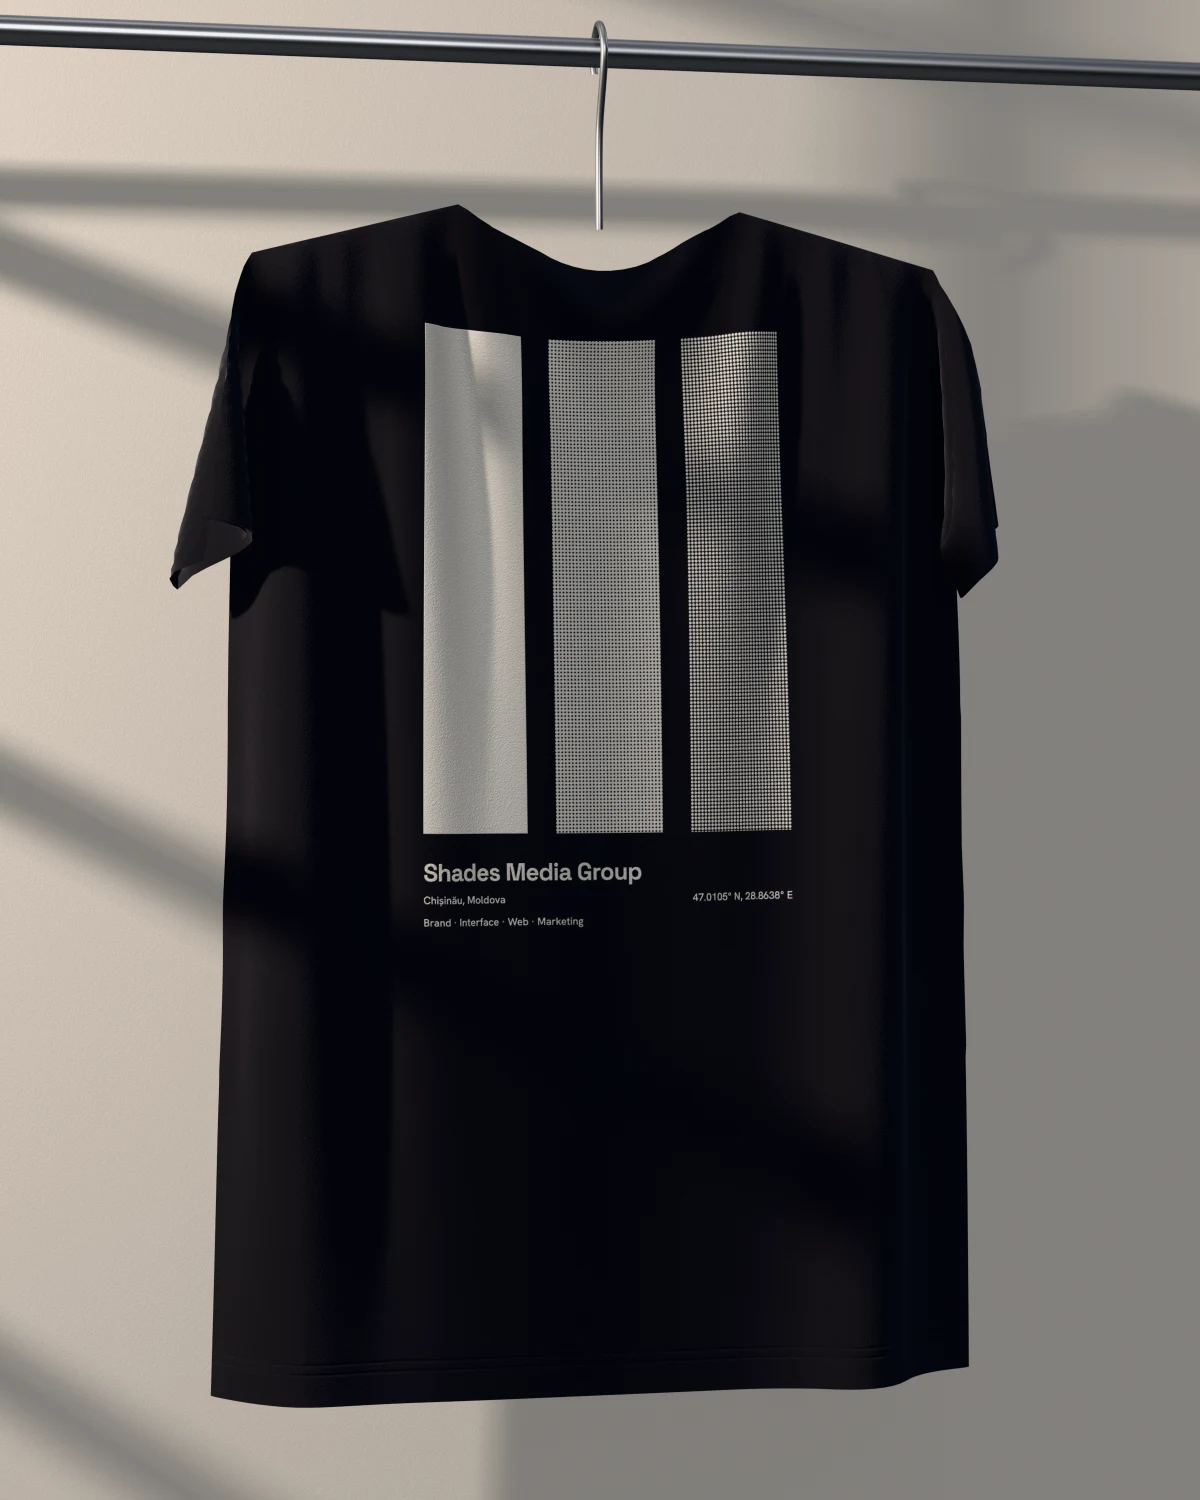
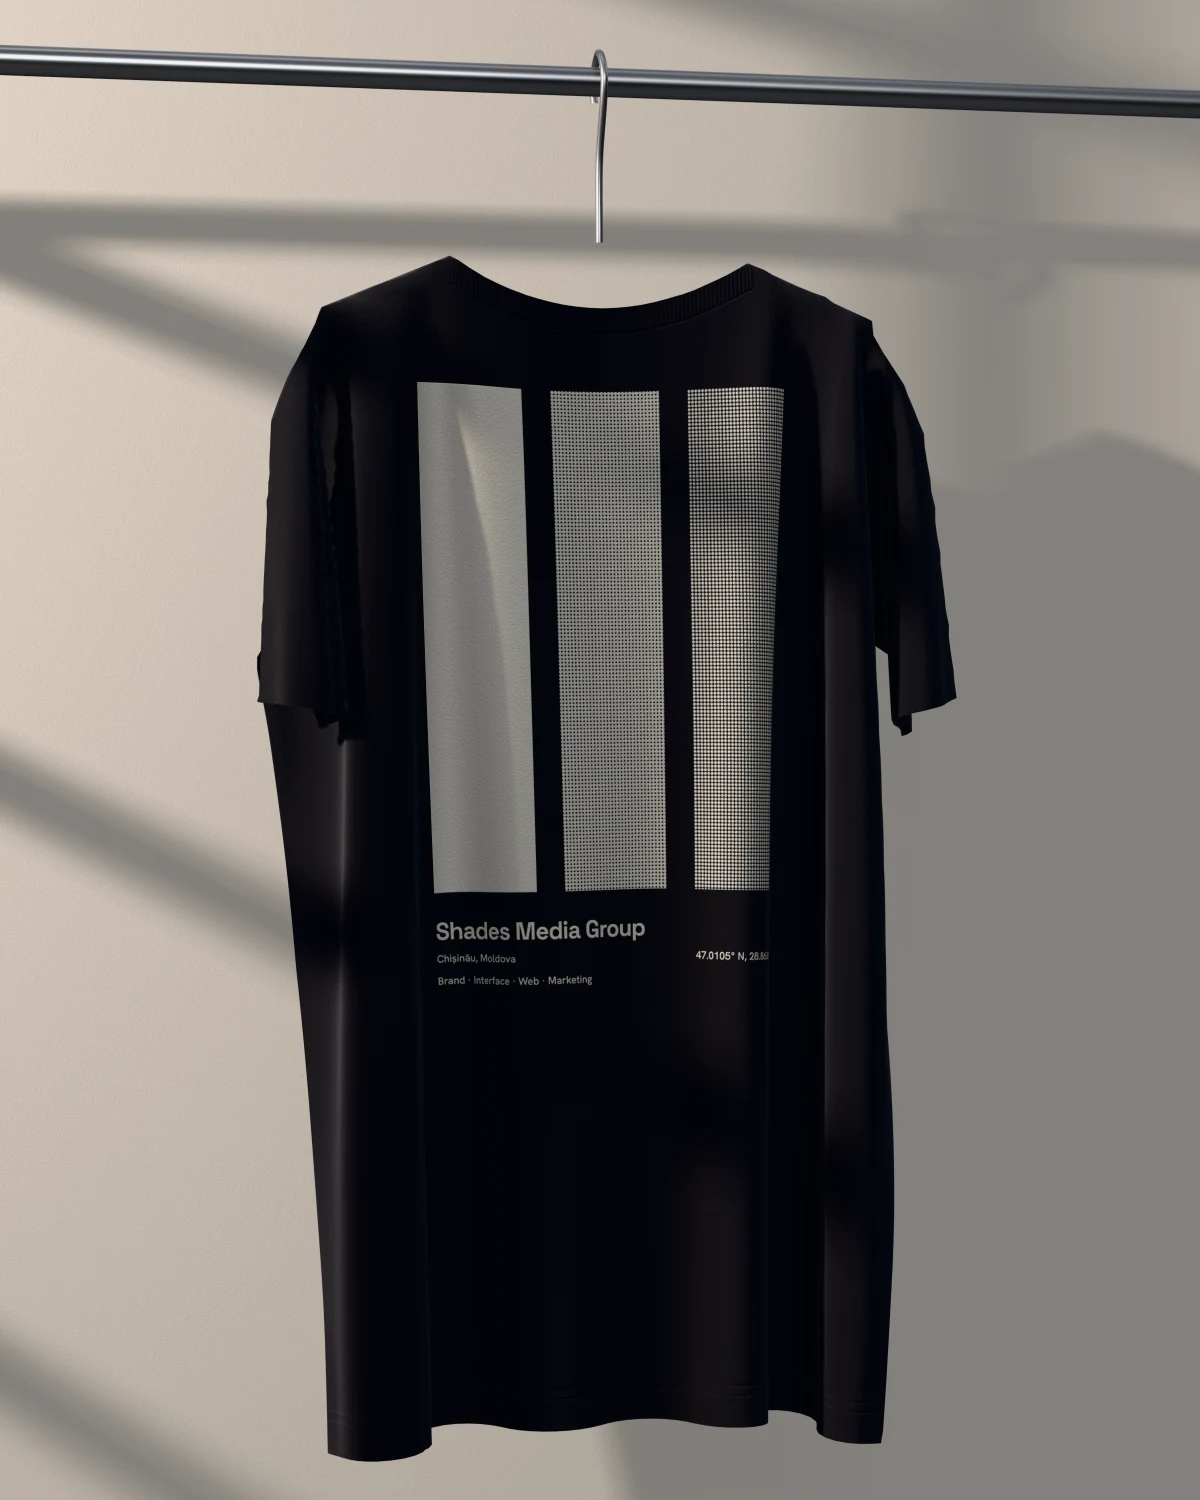
feat(renders): a tee that hangs like a real one
The cloth rests on a wooden hanger narrower than the shoulders, so the
shoulders roll over its tips; links cannot stretch past 2 %, so cotton stays
cotton; the pattern is a size L. The collar rib, shoulder seams, sleeve and
body hems are stitched into the fabric, and the print is a cotton-ink white.

diff --git a/scripts/renders/garment.js b/scripts/renders/garment.js
@@ -4,22 +4,27 @@
  * let fall under gravity (position-based dynamics). The folds are the
  * simulation's, not drawn.
  *
- * Pattern units are millimetres, size M: origin at the hem's centre, y up.
+ * Pattern units are millimetres, size L (560 mm chest, 700 mm long): origin at
+ * the hem's centre, y up.
  */
 import { THREE, noise } from './studio.js'
 
-export const NECK = 718
+export const NECK = 700
+
+/** A wooden hanger: arms 175 mm each side, sloping down from the hook, 14 mm thick. */
+export const HANGER = { reach: 175, thick: 14 }
+export const hangerTop = (a) => NECK - 4 - Math.max(0, a - 70) * 0.42
 
 /** The outline as segments, each a seam or an opening (neck, hem, sleeve hems). */
 function pattern() {
   const right = {
     neck: [92, NECK],
-    shoulder: [232, 684],
-    sleeveTop: [372, 592],
-    sleeveHem: [318, 498],
-    underarm: [262, 548],
-    waist: [266, 300],
-    hem: [260, 0],
+    shoulder: [246, 666],
+    sleeveTop: [392, 576],
+    sleeveHem: [336, 480],
+    underarm: [280, 530],
+    waist: [284, 300],
+    hem: [280, 0],
   }
   const mirror = ([x, y]) => [-x, y]
   const segments = []
@@ -80,7 +85,7 @@ function closest(segments, x, y, filter = () => true) {
  * back of the shirt, facing the camera) and the inner panel, with UVs in
  * pattern space: u = (x + 400) / 800, v = y / 760.
  */
-export function drapeTee({ spacing = 8, steps = 420, iterations = 22, seed = 3 } = {}) {
+export function drapeTee({ spacing = 8, steps = 560, iterations = 22, seed = 3 } = {}) {
   const segments = pattern()
   const x0 = -400
   const y0 = 0
@@ -117,9 +122,11 @@ export function drapeTee({ spacing = 8, steps = 420, iterations = 22, seed = 3 }
     const n = node[k]
     front.set(k, px.length / 3)
     const seamDistance = closest(segments, n.x, n.y, (s) => !s.open).d
-    const puff = 9 * Math.min(1, seamDistance / 70)
+    const puff = 5 * Math.min(1, seamDistance / 80)
     px.push(n.x, n.y, puff + (noise(n.x / 40, n.y / 40, seed) - 0.5) * 3)
-    inv.push(n.edge && n.shoulder ? 0 : 1)
+    // Only the part of the shoulder seam that rests on the hanger is held; past the
+    // hanger's tips the shoulders roll over and drop, as they do on a real hanger.
+    inv.push(n.edge && n.shoulder && Math.abs(n.x) <= HANGER.reach ? 0 : 1)
     rest2d.push([n.x, n.y])
   }
   for (const k of used) {
@@ -130,15 +137,19 @@ export function drapeTee({ spacing = 8, steps = 420, iterations = 22, seed = 3 }
     }
     back.set(k, px.length / 3)
     const seamDistance = closest(segments, n.x, n.y, (s) => !s.open).d
-    const puff = 9 * Math.min(1, seamDistance / 70)
+    const puff = 5 * Math.min(1, seamDistance / 80)
     px.push(n.x, n.y, -puff + (noise(n.x / 40, n.y / 40, seed + 5) - 0.5) * 3)
     inv.push(1)
     rest2d.push([n.x, n.y])
   }
-  // The hanger is narrower than the shoulders, so the pinned seam sits 6 % in.
   const count = px.length / 3
   const P = new Float32Array(px)
-  for (let p = 0; p < count; p++) if (inv[p] === 0) P[p * 3] *= 0.94
+  // Held seam nodes sit on the hanger's arms, which slope down from the hook.
+  for (let p = 0; p < count; p++)
+    if (inv[p] === 0) {
+      P[p * 3 + 1] = hangerTop(Math.abs(P[p * 3]))
+      P[p * 3 + 2] = 0
+    }
   const Q = new Float32Array(P)
   const W = new Float32Array(inv)
 
@@ -210,11 +221,39 @@ export function drapeTee({ spacing = 8, steps = 420, iterations = 22, seed = 3 }
         P[b + 1] -= dy * diff * wb
         P[b + 2] -= dz * diff * wb
       }
-      // The two panels never pass through each other.
+      // Cotton jersey barely stretches: no structural link grows past 2 %.
+      if (it === iterations - 1)
+        for (let c = 0; c < A.length; c++) {
+          if (K[c] !== 1) continue
+          const a = A[c] * 3
+          const b = B[c] * 3
+          const dx = P[b] - P[a]
+          const dy = P[b + 1] - P[a + 1]
+          const dz = P[b + 2] - P[a + 2]
+          const len = Math.sqrt(dx * dx + dy * dy + dz * dz) || 1e-6
+          const max = R[c] * 1.02
+          if (len <= max) continue
+          const wa = W[A[c]]
+          const wb = W[B[c]]
+          const w = wa + wb
+          if (w === 0) continue
+          const diff = (len - max) / (len * w)
+          P[a] += dx * diff * wa
+          P[a + 1] += dy * diff * wa
+          P[a + 2] += dz * diff * wa
+          P[b] -= dx * diff * wb
+          P[b + 1] -= dy * diff * wb
+          P[b + 2] -= dz * diff * wb
+        }
+      // The two panels never pass through each other, and part around the hanger.
       for (const [f, b] of pairs) {
+        const x = Math.abs(P[f * 3])
+        const y = P[f * 3 + 1]
+        const onHanger = x < HANGER.reach + 12 && y > hangerTop(x) - 40
+        const min = onHanger ? HANGER.thick : 3
         const gap = P[f * 3 + 2] - P[b * 3 + 2]
-        if (gap < 3) {
-          const push = (3 - gap) / 2
+        if (gap < min) {
+          const push = (min - gap) / 2
           P[f * 3 + 2] += push * (W[f] ? 1 : 0)
           P[b * 3 + 2] -= push
         }

diff --git a/scripts/renders/scenes.js b/scripts/renders/scenes.js
@@ -823,8 +823,26 @@ async function tee(assets) {
     albedo.height,
     (x, y) => {
       const mmY = 760 - y / PX
+      const mmX = x / PX - 400
       let v = noise(x / 1.1, y / 0.7, 3) * 0.3
-      v -= 0.5 * (Math.exp(-(((mmY - 20) / 0.8) ** 2)) + Math.exp(-(((mmY - 26) / 0.8) ** 2)))
+      const groove = (d) => Math.exp(-((d / 0.8) ** 2))
+      // Hem: two rows of stitches.
+      v -= 0.5 * (groove(mmY - 20) + groove(mmY - 26))
+      // Collar: a 16 mm rib band along the neckline, stitched on its lower edge.
+      const neck = NECK - 18 * Math.sin(Math.PI * Math.min(1, Math.max(0, (mmX + 92) / 184)))
+      if (Math.abs(mmX) < 96 && mmY > neck - 16 && mmY <= neck + 1)
+        v += 0.35 + 0.28 * Math.sin(mmX * 2.4)
+      if (Math.abs(mmX) < 96) v -= 0.6 * groove(mmY - (neck - 16))
+      // Shoulder seams, from the collar to the shoulder point.
+      const ax = Math.abs(mmX)
+      if (ax > 92 && ax < 246) v -= 0.5 * groove(mmY - (NECK - ((ax - 92) / 154) * 34))
+      // Sleeve hems: stitches 18 mm and 24 mm in from the cuff.
+      const cuff =
+        ((ax - 392) * (336 - 392) + (mmY - 576) * (480 - 576)) / Math.hypot(336 - 392, 480 - 576)
+      const across =
+        ((ax - 392) * (480 - 576) - (mmY - 576) * (336 - 392)) / Math.hypot(336 - 392, 480 - 576)
+      if (ax > 250 && cuff > -4 && cuff < 112)
+        v -= 0.5 * (groove(across + 18) + groove(across + 24))
       if (printed[(y * albedo.width + x) * 4] > 110) v += 0.45
       return v
     },
@@ -869,7 +887,7 @@ async function tee(assets) {
     new THREE.TubeGeometry(
       new THREE.CatmullRomCurve3(
         [
-          [0, NECK - 14, -2],
+          [0, NECK - 4, -2],
           [0, NECK + 46, -2],
           [0, NECK + 98, 12],
           [0, NECK + 114, -4],
